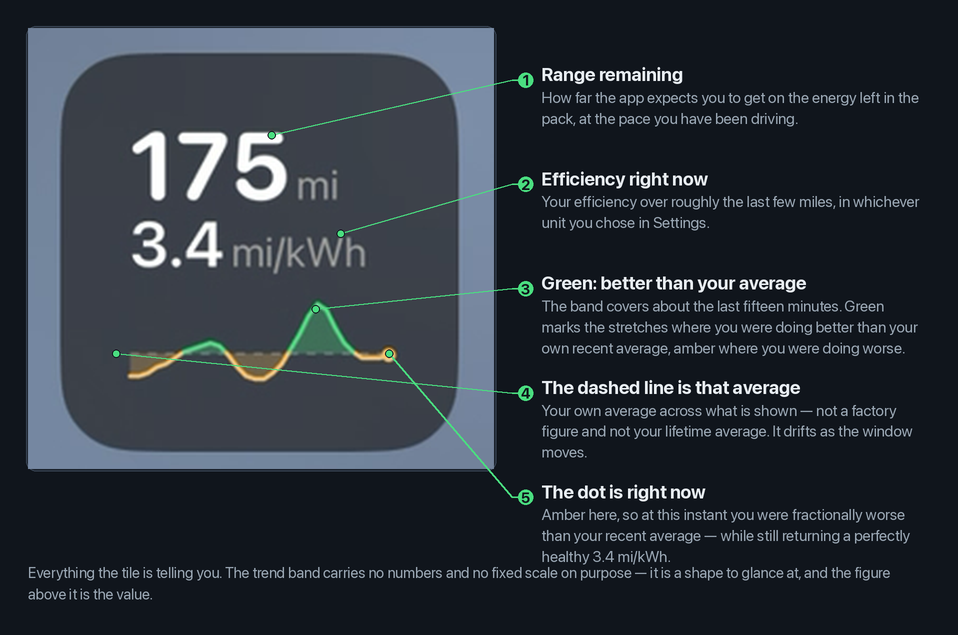
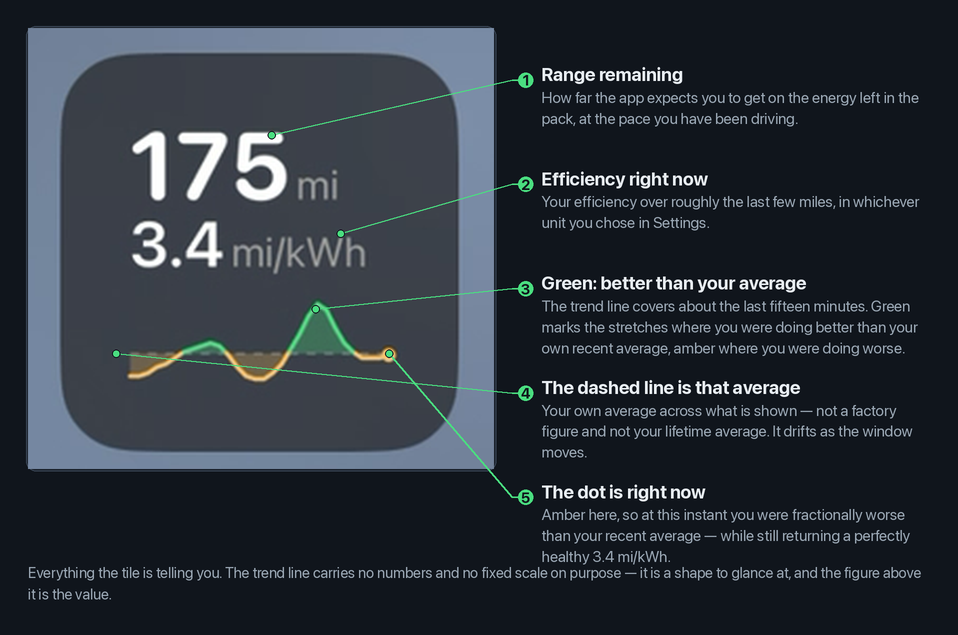
docs(efficiency): call it the trend line, matching the in-app help
The paper said "trend band" and the shipped Help tip for the Range tile
(carplay.help.range_body) says "a trend line". The app string is the more
widely read of the two and is already translated into eight locales, so the
paper follows it rather than the other way round.

Ten prose replacements plus two in callouts.json, which regenerates the Range
tile figure — that text is drawn into the PNG and no Markdown edit reaches it.

Not a blanket substitution: "band" also means a range of permitted values in
this document — the plausibility band of -200 to 5000 Wh/km and the 60-600
Wh/km seed band — and that sense is correct and untouched. Six occurrences,
asserted unchanged by the edit script. A regex over the bare word would also
have hit nine instances of "abandon".

One sentence needed rewording rather than substituting. The bullet reading
"**The line you are being measured against moves.**" was about the dashed
average; renaming the band to a line would have put two different lines in one
bullet. It now names the average directly.

Changed region(s): [[0.3027, 0.8976, 0.9687, 0.9276], [0.6054, 0.4787, 0.9384, 0.5087], [0.0303, 0.9276, 0.1514, 0.9575]]

diff --git a/efficiency-and-range.md b/efficiency-and-range.md
@@ -92,20 +92,20 @@ It is carrying three things at once: how far you can go, how efficiently you are
 
 ![The Range tile enlarged, with five labels. One, the range remaining. Two, your efficiency right now. Three, green marks stretches better than your recent average. Four, the dashed line is that average. Five, the dot is the present moment, amber here because you were fractionally worse than your average while still returning a healthy 3.4 miles per kilowatt-hour]({{ '/assets/images/efficiency-and-range/range-tile.png' | relative_url }})
 
-### The trend band compares you against yourself
+### The trend line compares you against yourself
 
-The green-and-amber band is the part most worth explaining.
+The green-and-amber trend line is the part most worth explaining.
 
 The dashed line running across it is **your own average over the fifteen minutes on display**. It is not a factory figure, not a target, and not your lifetime average. Green marks the stretches where you were beating that average and amber the stretches where you were not — and that holds whichever efficiency unit you have chosen. If you display miles per kWh, better means higher, so green sits above the line; if you display Wh/km or kWh/100km, better means lower, and green sits below it. Green always means *better than you had been doing*, so you never have to remember which direction is good for your unit.
 
 Two things are worth knowing before you read too much into the shape:
 
-- **There is no fixed scale, and no zero.** The band stretches vertically to fit whatever is currently in it, so a very steady drive and a wildly varying one can look about equally dramatic. Read the band for the pattern — am I trending better or worse, and where did that turn? — and read the number above it for the value.
-- **The line you are being measured against moves.** Because the dashed line is the average of the very stretch being coloured, there is always some green and some amber. You cannot drive your way to an all-green band, and a long, efficient descent will drag the average down far enough to turn ordinary cruising amber.
+- **There is no fixed scale, and no zero.** The trend line stretches vertically to fit whatever is currently in it, so a very steady drive and a wildly varying one can look about equally dramatic. Read the trend line for the pattern — am I trending better or worse, and where did that turn? — and read the number above it for the value.
+- **The average you are measured against moves.** Because the dashed line is the average of the very stretch being coloured, there is always some green and some amber. You cannot drive your way to an all-green trend line, and a long, efficient descent will drag the average down far enough to turn ordinary cruising amber.
 
 What reliably moves it: hills, speed, outside temperature, cabin heating or cooling, and stop-and-go traffic. A long descent on regenerative braking can push it deep into green.
 
-If the band is blank, it simply has not collected enough yet. It needs a couple of minutes of driving, fills in from the left, and a short stop does not wipe it.
+If the trend line is blank, it simply has not collected enough yet. It needs a couple of minutes of driving, fills in from the left, and a short stop does not wipe it.
 
 ---
 
@@ -142,7 +142,7 @@ There are three efficiency figures which represent different things.
 | Number | Where you see it | What it answers |
 |---|---|---|
 | **Trip efficiency** | History ▸ a driving session | "How efficient was *that drive*?" |
-| **Near-term efficiency** | The Range tile and its trend band | "How efficient am I driving *right now*?" |
+| **Near-term efficiency** | The Range tile and its trend line | "How efficient am I driving *right now*?" |
 | **Long-term efficiency** | *Nowhere — it divides into Range and arrival SoC* | "What should I expect over the miles ahead?" |
 
 </div>
@@ -210,7 +210,7 @@ All five forms are conversions of the same underlying Wh/km value:
 </div>
 
 The two "rate" forms (distance per energy) improve as they rise; the three "consumption" forms (energy per distance) improve as they fall.
-The app tracks that polarity so the CarPlay trend band tints green for "better than your recent average" in whichever unit you picked.
+The app tracks that polarity so the CarPlay trend line tints green for "better than your recent average" in whichever unit you picked.
 
 Rounding: Wh/mi and Wh/km display as whole numbers; the other three display to one decimal.
 
@@ -553,7 +553,7 @@ That sample is folded **twice**, into two running averages that differ only in h
 
 | | Half-life | Where it goes |
 |---|---|---|
-| **Near-term** <span class="katex"><math xmlns="http://www.w3.org/1998/Math/MathML"><semantics><mrow><mi>e</mi></mrow><annotation encoding="application/x-tex">e</annotation></semantics></math></span> | 8 km | The efficiency number on the Range tile, and the trend band beneath it |
+| **Near-term** <span class="katex"><math xmlns="http://www.w3.org/1998/Math/MathML"><semantics><mrow><mi>e</mi></mrow><annotation encoding="application/x-tex">e</annotation></semantics></math></span> | 8 km | The efficiency number on the Range tile, and the trend line beneath it |
 | **Long-term** <span class="katex"><math xmlns="http://www.w3.org/1998/Math/MathML"><semantics><mrow><msub><mi>e</mi><mtext>long</mtext></msub></mrow><annotation encoding="application/x-tex">e_{\text{long}}</annotation></semantics></math></span> | 60 km | The range figure (§5) and arrival state of charge (§6) |
 
 </div>

diff --git a/docs/efficiency-and-range/efficiency-and-range.src.md b/docs/efficiency-and-range/efficiency-and-range.src.md
@@ -30,20 +30,20 @@ It is carrying three things at once: how far you can go, how efficiently you are
 
 ![The Range tile enlarged, with five labels. One, the range remaining. Two, your efficiency right now. Three, green marks stretches better than your recent average. Four, the dashed line is that average. Five, the dot is the present moment, amber here because you were fractionally worse than your average while still returning a healthy 3.4 miles per kilowatt-hour]({{ '/assets/images/efficiency-and-range/range-tile.png' | relative_url }})
 
-### The trend band compares you against yourself
+### The trend line compares you against yourself
 
-The green-and-amber band is the part most worth explaining.
+The green-and-amber trend line is the part most worth explaining.
 
 The dashed line running across it is **your own average over the fifteen minutes on display**. It is not a factory figure, not a target, and not your lifetime average. Green marks the stretches where you were beating that average and amber the stretches where you were not — and that holds whichever efficiency unit you have chosen. If you display miles per kWh, better means higher, so green sits above the line; if you display Wh/km or kWh/100km, better means lower, and green sits below it. Green always means *better than you had been doing*, so you never have to remember which direction is good for your unit.
 
 Two things are worth knowing before you read too much into the shape:
 
-- **There is no fixed scale, and no zero.** The band stretches vertically to fit whatever is currently in it, so a very steady drive and a wildly varying one can look about equally dramatic. Read the band for the pattern — am I trending better or worse, and where did that turn? — and read the number above it for the value.
-- **The line you are being measured against moves.** Because the dashed line is the average of the very stretch being coloured, there is always some green and some amber. You cannot drive your way to an all-green band, and a long, efficient descent will drag the average down far enough to turn ordinary cruising amber.
+- **There is no fixed scale, and no zero.** The trend line stretches vertically to fit whatever is currently in it, so a very steady drive and a wildly varying one can look about equally dramatic. Read the trend line for the pattern — am I trending better or worse, and where did that turn? — and read the number above it for the value.
+- **The average you are measured against moves.** Because the dashed line is the average of the very stretch being coloured, there is always some green and some amber. You cannot drive your way to an all-green trend line, and a long, efficient descent will drag the average down far enough to turn ordinary cruising amber.
 
 What reliably moves it: hills, speed, outside temperature, cabin heating or cooling, and stop-and-go traffic. A long descent on regenerative braking can push it deep into green.
 
-If the band is blank, it simply has not collected enough yet. It needs a couple of minutes of driving, fills in from the left, and a short stop does not wipe it.
+If the trend line is blank, it simply has not collected enough yet. It needs a couple of minutes of driving, fills in from the left, and a short stop does not wipe it.
 
 ---
 
@@ -78,7 +78,7 @@ There are three efficiency figures which represent different things.
 | Number | Where you see it | What it answers |
 |---|---|---|
 | **Trip efficiency** | History ▸ a driving session | "How efficient was *that drive*?" |
-| **Near-term efficiency** | The Range tile and its trend band | "How efficient am I driving *right now*?" |
+| **Near-term efficiency** | The Range tile and its trend line | "How efficient am I driving *right now*?" |
 | **Long-term efficiency** | *Nowhere — it divides into Range and arrival SoC* | "What should I expect over the miles ahead?" |
 
 The third one never appears on screen anywhere, and it is the one that moves your range. Part 2 explains why the app keeps two horizons of the same measurement rather than one.
@@ -136,7 +136,7 @@ $$
 $$
 
 The two "rate" forms (distance per energy) improve as they rise; the three "consumption" forms (energy per distance) improve as they fall.
-The app tracks that polarity so the CarPlay trend band tints green for "better than your recent average" in whichever unit you picked.
+The app tracks that polarity so the CarPlay trend line tints green for "better than your recent average" in whichever unit you picked.
 
 Rounding: Wh/mi and Wh/km display as whole numbers; the other three display to one decimal.
 
@@ -457,7 +457,7 @@ That sample is folded **twice**, into two running averages that differ only in h
 
 | | Half-life | Where it goes |
 |---|---|---|
-| **Near-term** $e$ | 8 km | The efficiency number on the Range tile, and the trend band beneath it |
+| **Near-term** $e$ | 8 km | The efficiency number on the Range tile, and the trend line beneath it |
 | **Long-term** $e_{\text{long}}$ | 60 km | The range figure (§5) and arrival state of charge (§6) |
 
 There is no second measurement and no second window — the same energy, the same distance, the same plausibility band and limit.

diff --git a/docs/efficiency-and-range/2026-08-25-consumer-rewrite-design.md b/docs/efficiency-and-range/2026-08-25-consumer-rewrite-design.md
@@ -10,7 +10,7 @@ without taking anything away from the one who wants the derivation.
 ## What changed
 
 1. **A new Part 1** — four illustrated sections above the existing §1, covering
-   the Range & Efficiency tile (and its trend band), arrival state of charge, and
+   the Range & Efficiency tile (and its trend line), arrival state of charge, and
    the efficiency of a completed drive. No formulas.
 2. **The existing material becomes Part 2**, its numbering intact apart from the
    removal below.
